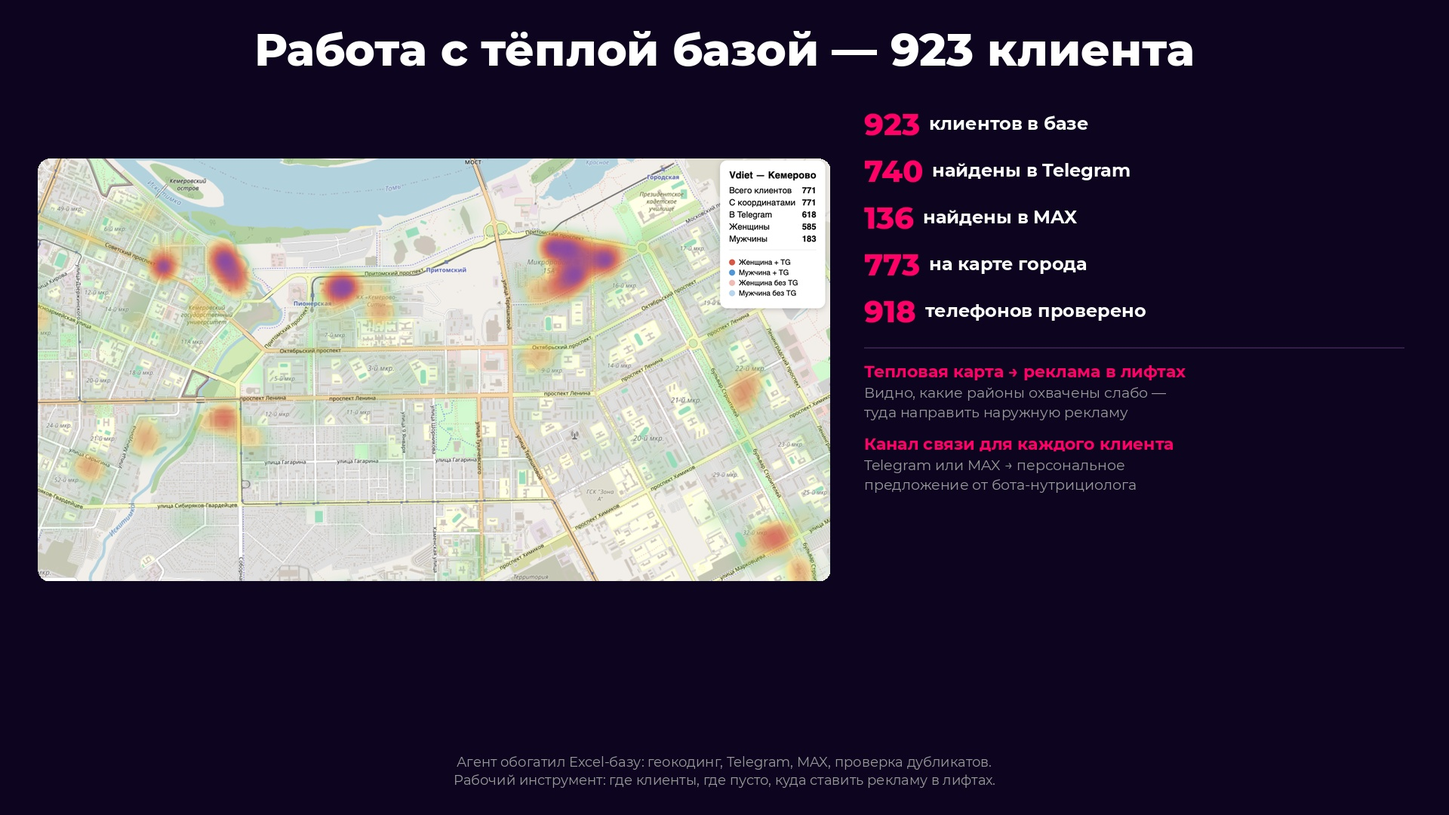
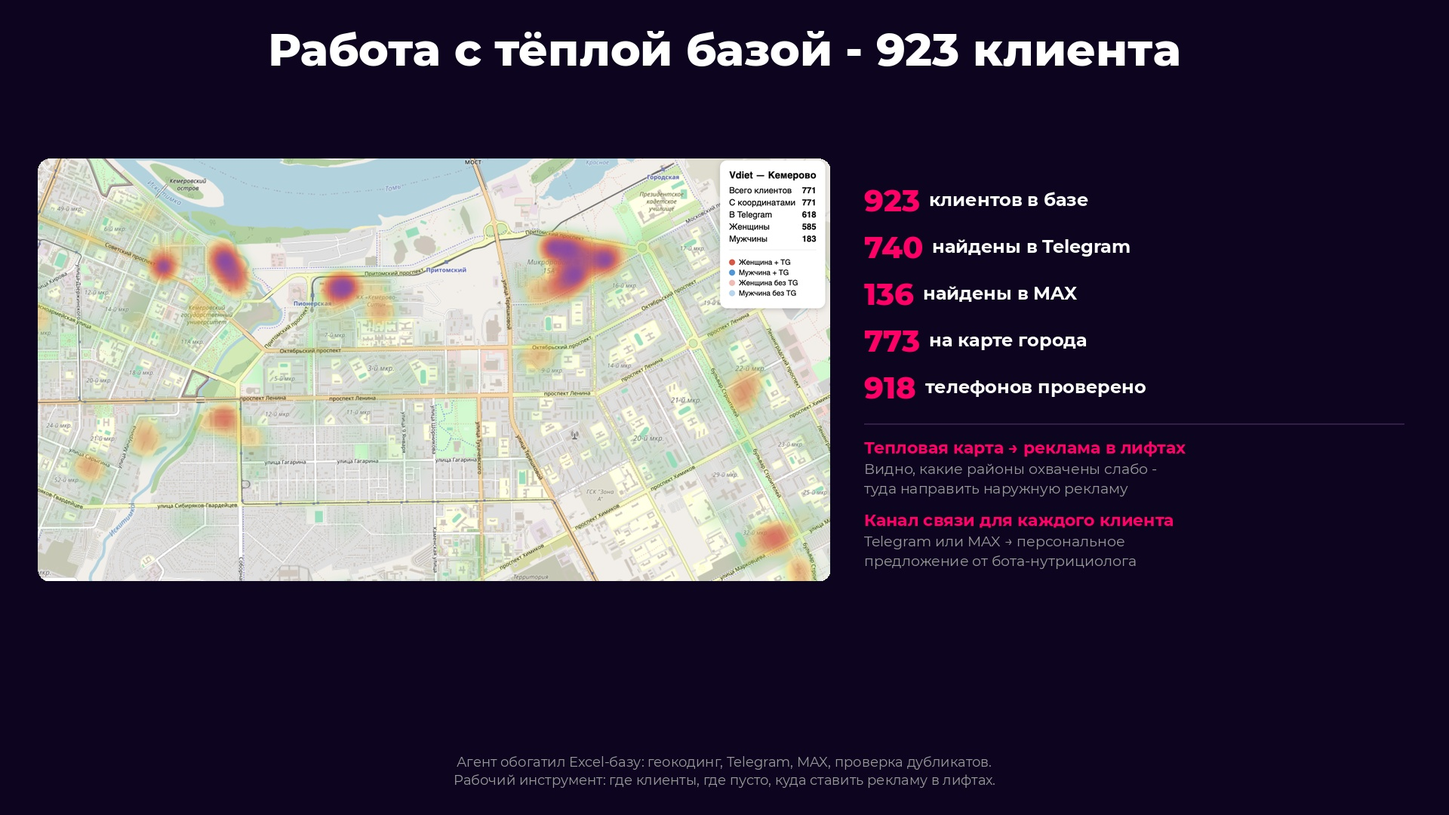
Update slides 8d and 9: align text, fix dashes, remove overlay

Changed region(s): [[0.5938, 0.1222, 0.8125, 0.7028], [0.1562, 0.0306, 0.8438, 0.0917]]

diff --git a/src/content/blog/ru/agenty-dlya-biznesa-s-nulya.md b/src/content/blog/ru/agenty-dlya-biznesa-s-nulya.md
@@ -1,12 +1,12 @@
 ---
 title: "ИИ-агенты для бизнеса с нуля"
-description: "ИИлья Черняк — предприниматель из Кемерово — рассказывает, как за два месяца с командой из 7 ИИ-агентов сделал больше, чем за полгода вручную"
+description: "ИИлья Черняк - предприниматель из Кемерово - рассказывает, как за два месяца с командой из 7 ИИ-агентов сделал больше, чем за полгода вручную"
 date: "2026-04-12"
 category: "Бизнес"
 image: "/blog/agenty-slide1.jpg"
 ---
 
-> Эта статья основана на моём выступлении 12 апреля 2026. 20 минут, конкретные кейсы — здесь всё то же самое, только текстом.
+> Эта статья основана на моём выступлении 12 апреля 2026. 20 минут, конкретные кейсы - здесь всё то же самое, только текстом.
 
 ---
 
@@ -14,31 +14,31 @@ image: "/blog/agenty-slide1.jpg"
 
 ![ИИлья Черняк](/blog/agenty-slide1.jpg)
 
-Всем привет! Меня зовут ИИлья — ну, вы понимаете.
+Всем привет! Меня зовут ИИлья - ну, вы понимаете.
 
 Я предприниматель, в бизнесе с 2010 года. Сейчас веду три проекта: магазины электроники IZI, сеть вейп-шопов Империя и аренду фото-видео оборудования Playback Rental.
 
-В феврале я с головой нырнул в ИИ-агентов — и начал применять их в своих бизнесах. За два месяца мы с командой из семи агентов сделали столько, сколько раньше заняло бы полгода. Сегодня покажу конкретные кейсы — что получилось, что не получилось, и почему это меняет правила игры.
+В феврале я с головой нырнул в ИИ-агентов - и начал применять их в своих бизнесах. За два месяца мы с командой из семи агентов сделали столько, сколько раньше заняло бы полгода. Сегодня покажу конкретные кейсы - что получилось, что не получилось, и почему это меняет правила игры.
 
 ---
 
-#### Агентская система — революция в ИИ
+#### Агентская система - революция в ИИ
 
-![Агентская система — революция в ИИ](/blog/agenty-slide1a.jpg)
+![Агентская система - революция в ИИ](/blog/agenty-slide1a.jpg)
 
-ChatGPT — помощник без памяти. Память как у золотой рыбки. Ты вкладываешь время, объясняешь, учишь — а через неделю он всё забыл.
+ChatGPT - помощник без памяти. Память как у золотой рыбки. Ты вкладываешь время, объясняешь, учишь - а через неделю он всё забыл.
 
-Агент — это другое. Это ИИ, который стоит на твоём компьютере. У него есть доступ к файлам, память, которая не стирается, и он может делать всё, что делает человек за клавиатурой — устанавливать программы, создавать файлы, публиковать в интернет.
+Агент - это другое. Это ИИ, который стоит на твоём компьютере. У него есть доступ к файлам, память, которая не стирается, и он может делать всё, что делает человек за клавиатурой - устанавливать программы, создавать файлы, публиковать в интернет.
 
 Claude Code + OpenClaw = среда для создания команды ИИ-агентов. Три ключевых отличия от обычных нейросетей: память, доступ к компьютеру, специализация.
 
 ---
 
-#### Моя команда — 7 агентов
+#### Моя команда - 7 агентов
 
-![Моя команда — 7 агентов](/blog/agenty-slide2.jpg)
+![Моя команда - 7 агентов](/blog/agenty-slide2.jpg)
 
-Команда — семь агентов, каждый со своей специализацией. Координатор, SMM-щик, разведчик, дизайнер, инженер, мониторщик и стратег. Общение через Telegram или терминал. Агенты работают прямо на компьютере — меняют файлы, устанавливают приложения, деплоят сайты. Всё, что может делать человек за клавиатурой — может и агент.
+Команда - семь агентов, каждый со своей специализацией. Координатор, SMM-щик, разведчик, дизайнер, инженер, мониторщик и стратег. Общение через Telegram или терминал. Агенты работают прямо на компьютере - меняют файлы, устанавливают приложения, деплоят сайты. Всё, что может делать человек за клавиатурой - может и агент.
 
 ---
 
@@ -46,132 +46,132 @@ Claude Code + OpenClaw = среда для создания команды ИИ-
 
 ![GEO-оптимизация сайта IZI](/blog/agenty-slide3.jpg)
 
-GEO-оптимизация — оптимизация контента под нейровыдачу (ChatGPT, Perplexity, Яндекс). Люди перестают искать в поисковиках — они решают задачи с нейросетями. А нейросеть выдаёт не список ссылок, а конкретные рекомендации: что купить и где.
+GEO-оптимизация - оптимизация контента под нейровыдачу (ChatGPT, Perplexity, Яндекс). Люди перестают искать в поисковиках - они решают задачи с нейросетями. А нейросеть выдаёт не список ссылок, а конкретные рекомендации: что купить и где.
 
 Агент Лео внедрил на существующий сайт IZI колонку «Новости» со статьями, заточенными под нейровыдачу. На основе этих статей генерируется SMM-контент для соцсетей.
 
 ---
 
-#### SMM-агент Изя — 5 площадок
+#### SMM-агент Изя - 5 площадок
 
-![SMM-агент Изя — 5 площадок](/blog/agenty-slide5.jpg)
+![SMM-агент Изя - 5 площадок](/blog/agenty-slide5.jpg)
 
-После GEO-оптимизации у компании появился маскот — вымышленный персонаж агент Изя. Он захватил все соцсети: Telegram, VK, Instagram, Threads, Pinterest. На основе каждой статьи с сайта генерирует тексты, оптимизированные под каждую площадку, и фотоизображения. Всё в автоматическом режиме — скидывает контент в Telegram на утверждение, затем публикует по расписанию. Раньше SMM обходился в 35к/мес за перепосты. Сейчас — уникальный контент 24/7.
+После GEO-оптимизации у компании появился маскот - вымышленный персонаж агент Изя. Он захватил все соцсети: Telegram, VK, Instagram, Threads, Pinterest. На основе каждой статьи с сайта генерирует тексты, оптимизированные под каждую площадку, и фотоизображения. Всё в автоматическом режиме - скидывает контент в Telegram на утверждение, затем публикует по расписанию. Раньше SMM обходился в 35к/мес за перепосты. Сейчас - уникальный контент 24/7.
 
 ---
 
-#### Telegram — кружки, сторис, посты
+#### Telegram - кружки, сторис, посты
 
-![Telegram — кружки, сторис, посты](/blog/agenty-slide5a.jpg)
+![Telegram - кружки, сторис, посты](/blog/agenty-slide5a.jpg)
 
 Telegram-канал IZI: кружки с Изей, сторис, посты про технику. Контент генерируется автоматически, утверждается в один клик и публикуется по расписанию.
 
 ---
 
-#### Threads — охваты с нуля
+#### Threads - охваты с нуля
 
-![Threads — охваты с нуля](/blog/agenty-slide5b.jpg)
+![Threads - охваты с нуля](/blog/agenty-slide5b.jpg)
 
-Threads — неочевидная площадка с огромным потенциалом. 5000 просмотров с нулевого аккаунта на полезном контенте. Подключается один раз по API — дальше ничего не стоит и не усложняет. Просто ещё один канал, куда Изя автоматически публикует контент.
-
----
-
-#### Pinterest — вечный поисковик
-
-![Pinterest — вечный поисковик](/blog/agenty-slide5c.jpg)
-
-Pinterest — это поисковик, не соцсеть. Кликабельность в 5-10 раз выше других площадок — люди приходят за идеями и кликают на ссылки. Пины живут годами и ведут трафик на сайт. Подключается по API один раз — дальше бесплатно. И самый неочевидный бонус: Pinterest не заблокирован в России — можно использовать как официальную площадку для рекламы.
+Threads - неочевидная площадка с огромным потенциалом. 5000 просмотров с нулевого аккаунта на полезном контенте. Подключается один раз по API - дальше ничего не стоит и не усложняет. Просто ещё один канал, куда Изя автоматически публикует контент.
 
 ---
 
-#### SnobSnab — сайт за один день
+#### Pinterest - вечный поисковик
 
-![SnobSnab — сайт за один день](/blog/agenty-slide6.jpg)
+![Pinterest - вечный поисковик](/blog/agenty-slide5c.jpg)
 
-Теперь от SMM к новым возможностям. Одна из самых удивительных вещей — невероятная лёгкость создания сайта с нуля. Пришла идея — описываешь её агенту, кидаешь референсы, и агент Лео создаёт сайт: каталог, блог, форму заявки. Нужно только купить домен, оплатить хостинг, дать доступы — дальше он делает всё сам.
-
-SnobSnab — идея дропшиппинга стройматериалов напрямую от заводов, на 30% дешевле магазинов. Без склада, делимся скидкой с покупателем. Рабочий сайт появился за один день. Такой MVP можно сделать для любого проекта — проверить идею до вложений.
+Pinterest - это поисковик, не соцсеть. Кликабельность в 5-10 раз выше других площадок - люди приходят за идеями и кликают на ссылки. Пины живут годами и ведут трафик на сайт. Подключается по API один раз - дальше бесплатно. И самый неочевидный бонус: Pinterest не заблокирован в России - можно использовать как официальную площадку для рекламы.
 
 ---
 
-#### mdk.guru — личный блог с нуля
+#### SnobSnab - сайт за один день
 
-![mdk.guru — личный блог с нуля](/blog/agenty-slide7.jpg)
+![SnobSnab - сайт за один день](/blog/agenty-slide6.jpg)
 
-Каждому предпринимателю нужен личный бренд. Но содержать блог — это время, деньги и головная боль. А что если всё это можно делегировать агенту?
+Теперь от SMM к новым возможностям. Одна из самых удивительных вещей - невероятная лёгкость создания сайта с нуля. Пришла идея - описываешь её агенту, кидаешь референсы, и агент Лео создаёт сайт: каталог, блог, форму заявки. Нужно только купить домен, оплатить хостинг, дать доступы - дальше он делает всё сам.
 
-mdk.guru — мой личный блог, который агент Лео создал с нуля. Он сам нашёл бесплатный хостинг, выбрал систему генерации сайта, развернул всё и задеплоил. Единственное вложение — домен. Всё остальное бесплатно.
-
-Здесь я храню всю историю взаимодействия с ИИ-агентами: как собирал команду, какие кейсы реализовали, какие грабли встретили. 7 статей на трёх языках — русский, английский, испанский. Статьи к выступлениям тоже размещаются здесь.
-
-По сути, это документация моего пути — и одновременно GEO-оптимизация личного бренда. Когда нейросеть отвечает на вопрос про ИИ-агентов для бизнеса — она может сослаться на мой блог. А стоит это всё — стоимость домена в год.
+SnobSnab - идея дропшиппинга стройматериалов напрямую от заводов, на 30% дешевле магазинов. Без склада, делимся скидкой с покупателем. Рабочий сайт появился за один день. Такой MVP можно сделать для любого проекта - проверить идею до вложений.
 
 ---
 
-#### VDiet — бот-нутрициолог для бизнеса
+#### mdk.guru - личный блог с нуля
 
-![VDiet — бот-нутрициолог для бизнеса](/blog/agenty-slide8.jpg)
+![mdk.guru - личный блог с нуля](/blog/agenty-slide7.jpg)
 
-Переходим к более интересному кейсу. VDiet — сотрудничество со службой доставки здорового питания. У них 700+ клиентов в тёплой базе.
+Каждому предпринимателю нужен личный бренд. Но содержать блог - это время, деньги и головная боль. А что если всё это можно делегировать агенту?
 
-Мы разработали Telegram-бота, который рассылает сообщения тёплой базе, быстро проводит клиента до заказа: уточняет параметры (рост, вес, возраст, активность), выясняет цель (похудеть, набрать, поддержать), считает норму калорий по формуле Миффлина, и подбирает подходящий рацион из реального меню компании. Клиент может оформить заказ прямо в боте — менеджеру приходит готовая форма.
+mdk.guru - мой личный блог, который агент Лео создал с нуля. Он сам нашёл бесплатный хостинг, выбрал систему генерации сайта, развернул всё и задеплоил. Единственное вложение - домен. Всё остальное бесплатно.
 
-Но мы пошли дальше. Это не просто кнопочный бот с заготовленными ответами. Мы внедрили в него настоящий искусственный интеллект — бот загрузил в себя всю базу компании: меню, составы, КБЖУ — и общается с клиентом как нутрициолог в реальном времени. В теме здорового питания людям нужна консультация специалиста — и мы её дали, бесплатно, через ИИ. Это уже работает.
+Здесь я храню всю историю взаимодействия с ИИ-агентами: как собирал команду, какие кейсы реализовали, какие грабли встретили. 7 статей на трёх языках - русский, английский, испанский. Статьи к выступлениям тоже размещаются здесь.
 
----
-
-#### ИИ-нутрициолог — реальное общение
-
-![ИИ-нутрициолог — реальное общение](/blog/agenty-slide8a.jpg)
-
-Настоящий ИИ, не кнопочный бот. Работает с возражениями, разрушает мифы, знает всё меню и КБЖУ наизусть. Отвечает лучше администратора, который устроился месяц назад — потому что загрузил в себя всю базу компании. Общается как специалист с полнотой знаний. 24/7, без выходных, без перерывов.
+По сути, это документация моего пути - и одновременно GEO-оптимизация личного бренда. Когда нейросеть отвечает на вопрос про ИИ-агентов для бизнеса - она может сослаться на мой блог. А стоит это всё - стоимость домена в год.
 
 ---
 
-#### Mini App — каталог блюд и рационов
+#### VDiet - бот-нутрициолог для бизнеса
 
-![Mini App — каталог блюд и рационов](/blog/agenty-slide8b.jpg)
+![VDiet - бот-нутрициолог для бизнеса](/blog/agenty-slide8.jpg)
 
-Но бот — это только начало. Внутри Telegram-бота встроено полноценное веб-приложение — Mini App. Клиент открывает его одной кнопкой и получает доступ ко всему: рационы по калорийности (от 925 до 2000 ккал), понедельное меню с расписанием приёмов пищи, карточка каждого блюда с фотографией, точным КБЖУ и составом.
+Переходим к более интересному кейсу. VDiet - сотрудничество со службой доставки здорового питания. У них 700+ клиентов в тёплой базе.
 
-Есть вкладка «Все блюда» — каталог с поиском и категориями. Можно посмотреть любое блюдо до заказа, убедиться что подходит по составу и калориям.
+Мы разработали Telegram-бота, который рассылает сообщения тёплой базе, быстро проводит клиента до заказа: уточняет параметры (рост, вес, возраст, активность), выясняет цель (похудеть, набрать, поддержать), считает норму калорий по формуле Миффлина, и подбирает подходящий рацион из реального меню компании. Клиент может оформить заказ прямо в боте - менеджеру приходит готовая форма.
 
-Всё это агент разработал на основе технологических карт компании. И секрет — фотографии блюд тоже сгенерированы ИИ. Об этом в следующем слайде.
-
----
-
-#### 359 фото блюд — ИИ вместо фотографа
-
-![359 фото блюд — ИИ вместо фотографа](/blog/agenty-slide8c.jpg)
-
-Секрет, о котором стоит рассказать. Все фотографии блюд в Mini App — сгенерированы ИИ. У компании были старые фото в чёрных пластиковых контейнерах, но упаковка давно сменилась на крафтовую. Нанимать фотографа на 359 блюд — это время и деньги.
-
-Агент взял технологические карты компании, понял что внутри каждого блюда, и переложил все 359 позиций (315 блюд + 44 супа) из старых чёрных контейнеров в новые крафтовые коробки. Без фотографа, без студии, без вложений. Результат — актуальный каталог, где каждое блюдо выглядит именно так, как его получит клиент.
+Но мы пошли дальше. Это не просто кнопочный бот с заготовленными ответами. Мы внедрили в него настоящий искусственный интеллект - бот загрузил в себя всю базу компании: меню, составы, КБЖУ - и общается с клиентом как нутрициолог в реальном времени. В теме здорового питания людям нужна консультация специалиста - и мы её дали, бесплатно, через ИИ. Это уже работает.
 
 ---
 
-#### Работа с тёплой базой — 923 клиента
+#### ИИ-нутрициолог - реальное общение
 
-![Работа с тёплой базой — 923 клиента](/blog/agenty-slide8d.jpg)
+![ИИ-нутрициолог - реальное общение](/blog/agenty-slide8a.jpg)
+
+Настоящий ИИ, не кнопочный бот. Работает с возражениями, разрушает мифы, знает всё меню и КБЖУ наизусть. Отвечает лучше администратора, который устроился месяц назад - потому что загрузил в себя всю базу компании. Общается как специалист с полнотой знаний. 24/7, без выходных, без перерывов.
+
+---
+
+#### Mini App - каталог блюд и рационов
+
+![Mini App - каталог блюд и рационов](/blog/agenty-slide8b.jpg)
+
+Но бот - это только начало. Внутри Telegram-бота встроено полноценное веб-приложение - Mini App. Клиент открывает его одной кнопкой и получает доступ ко всему: рационы по калорийности (от 925 до 2000 ккал), понедельное меню с расписанием приёмов пищи, карточка каждого блюда с фотографией, точным КБЖУ и составом.
+
+Есть вкладка «Все блюда» - каталог с поиском и категориями. Можно посмотреть любое блюдо до заказа, убедиться что подходит по составу и калориям.
+
+Всё это агент разработал на основе технологических карт компании. И секрет - фотографии блюд тоже сгенерированы ИИ. Об этом в следующем слайде.
+
+---
+
+#### 359 фото блюд - ИИ вместо фотографа
+
+![359 фото блюд - ИИ вместо фотографа](/blog/agenty-slide8c.jpg)
+
+Секрет, о котором стоит рассказать. Все фотографии блюд в Mini App - сгенерированы ИИ. У компании были старые фото в чёрных пластиковых контейнерах, но упаковка давно сменилась на крафтовую. Нанимать фотографа на 359 блюд - это время и деньги.
+
+Агент взял технологические карты компании, понял что внутри каждого блюда, и переложил все 359 позиций (315 блюд + 44 супа) из старых чёрных контейнеров в новые крафтовые коробки. Без фотографа, без студии, без вложений. Результат - актуальный каталог, где каждое блюдо выглядит именно так, как его получит клиент.
+
+---
+
+#### Работа с тёплой базой - 923 клиента
+
+![Работа с тёплой базой - 923 клиента](/blog/agenty-slide8d.jpg)
 
 У компании была Excel-таблица с клиентами: имя, телефон, адрес. Мёртвые данные, которые никто не трогал. Агент превратил эту таблицу в рабочий инструмент.
 
 Что сделал агент: проверил 918 телефонов через DADATA (оператор, регион), нашёл 740 клиентов в Telegram, нашёл 136 в мессенджере MAX, геокодировал 773 адреса через Яндекс.Карты и разнёс всех на тепловую карту города. Проверил дубликаты, определил пол.
 
-Результат — тепловая карта показывает, где живут клиенты, какие районы охвачены слабо (куда направить наружную рекламу), а главное — теперь у каждого клиента есть канал связи. Кому написать в Telegram, кому в MAX — с персональным предложением пообщаться с ботом-нутрициологом. Бот задаст вопросы, посчитает норму, подберёт рацион — и доведёт до заказа.
+Результат - тепловая карта показывает, где живут клиенты, какие районы охвачены слабо (куда направить наружную рекламу), а главное - теперь у каждого клиента есть канал связи. Кому написать в Telegram, кому в MAX - с персональным предложением пообщаться с ботом-нутрициологом. Бот задаст вопросы, посчитает норму, подберёт рацион - и доведёт до заказа.
 
 ---
 
-#### Одно ядро — любая платформа
+#### Одно ядро - любая платформа
 
-![Одно ядро — любая платформа](/blog/agenty-slide9.jpg)
+![Одно ядро - любая платформа](/blog/agenty-slide9.jpg)
 
-Telegram-бот и MAX-бот — это не отдельные продукты. Агенты создали ядро: ИИ-консультант, каталог блюд, расчёт КБЖУ, работа с базой клиентов. Это ядро обёрнуто в Telegram и MAX — оба уже работают. На подходе iOS-приложение.
+Telegram-бот и MAX-бот - это не отдельные продукты. Агенты создали ядро: ИИ-консультант, каталог блюд, расчёт КБЖУ, работа с базой клиентов. Это ядро обёрнуто в Telegram и MAX - оба уже работают. На подходе iOS-приложение.
 
-И вот здесь начинается самое интересное. Приложение — это не просто ещё одна обёртка. Это инструмент удержания клиента. Человек начинает вести дневник питания: забивает завтрак, обед, перекусы — видит свои белки, жиры, углеводы в реальном времени. Здесь же он общается с ИИ-нутрициологом, получает рекомендации. Приложение хранит всю его историю питания.
+И вот здесь начинается самое интересное. Приложение - это не просто ещё одна обёртка. Это инструмент удержания клиента. Человек начинает вести дневник питания: забивает завтрак, обед, перекусы - видит свои белки, жиры, углеводы в реальном времени. Здесь же он общается с ИИ-нутрициологом, получает рекомендации. Приложение хранит всю его историю питания.
 
-Клиент привязывается к экосистеме: через push-уведомления можно присылать новости, акции, сезонные предложения. Срок жизни клиента растёт кратно — он уже не просто заказал и забыл, а ведёт свой дневник внутри нашей системы каждый день.
+Клиент привязывается к экосистеме: через push-уведомления можно присылать новости, акции, сезонные предложения. Срок жизни клиента растёт кратно - он уже не просто заказал и забыл, а ведёт свой дневник внутри нашей системы каждый день.
 
-И этот подход применим для любого бизнеса. Чем сложнее консультация нужна клиенту — тем больше эффект. Оконная компания, 20 лет на рынке — бот консультирует, прогревает, и передаёт тёплого клиента менеджеру. Всю грязную работу делает агент.
+И этот подход применим для любого бизнеса. Чем сложнее консультация нужна клиенту - тем больше эффект. Оконная компания, 20 лет на рынке - бот консультирует, прогревает, и передаёт тёплого клиента менеджеру. Всю грязную работу делает агент.
 
 ---
